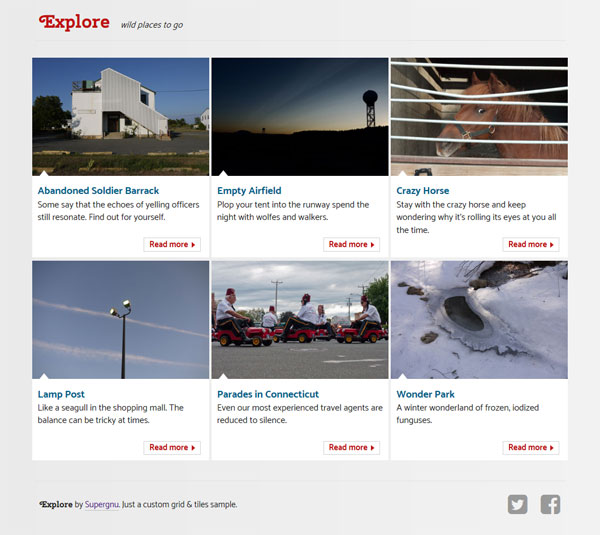
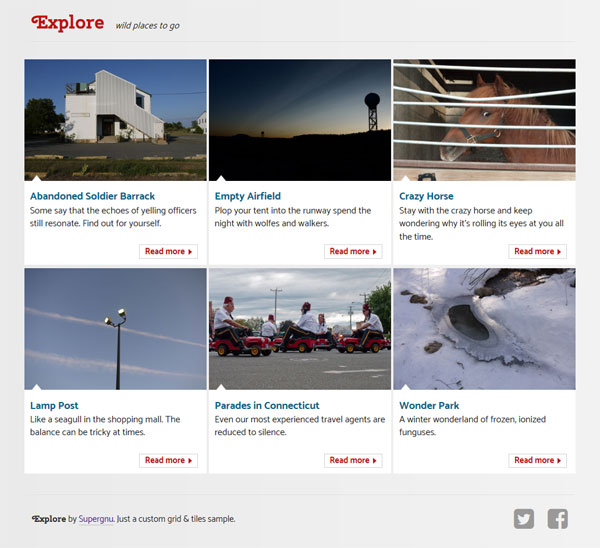
little typo

diff --git a/index.html b/index.html
@@ -60,7 +60,7 @@
           <img src="images/P1030239.JPG">
           <div class="tileinfo">
             <h3><a href="#">Wonder Park</a></h3>
-            <p>A winter wonderland of frozen, iodized funguses.</p>
+            <p>A winter wonderland of frozen, ionized funguses.</p>
             <a href="#" class="btn cta">Read more <span class="caret"></span></a>
           </div>
         </li>
